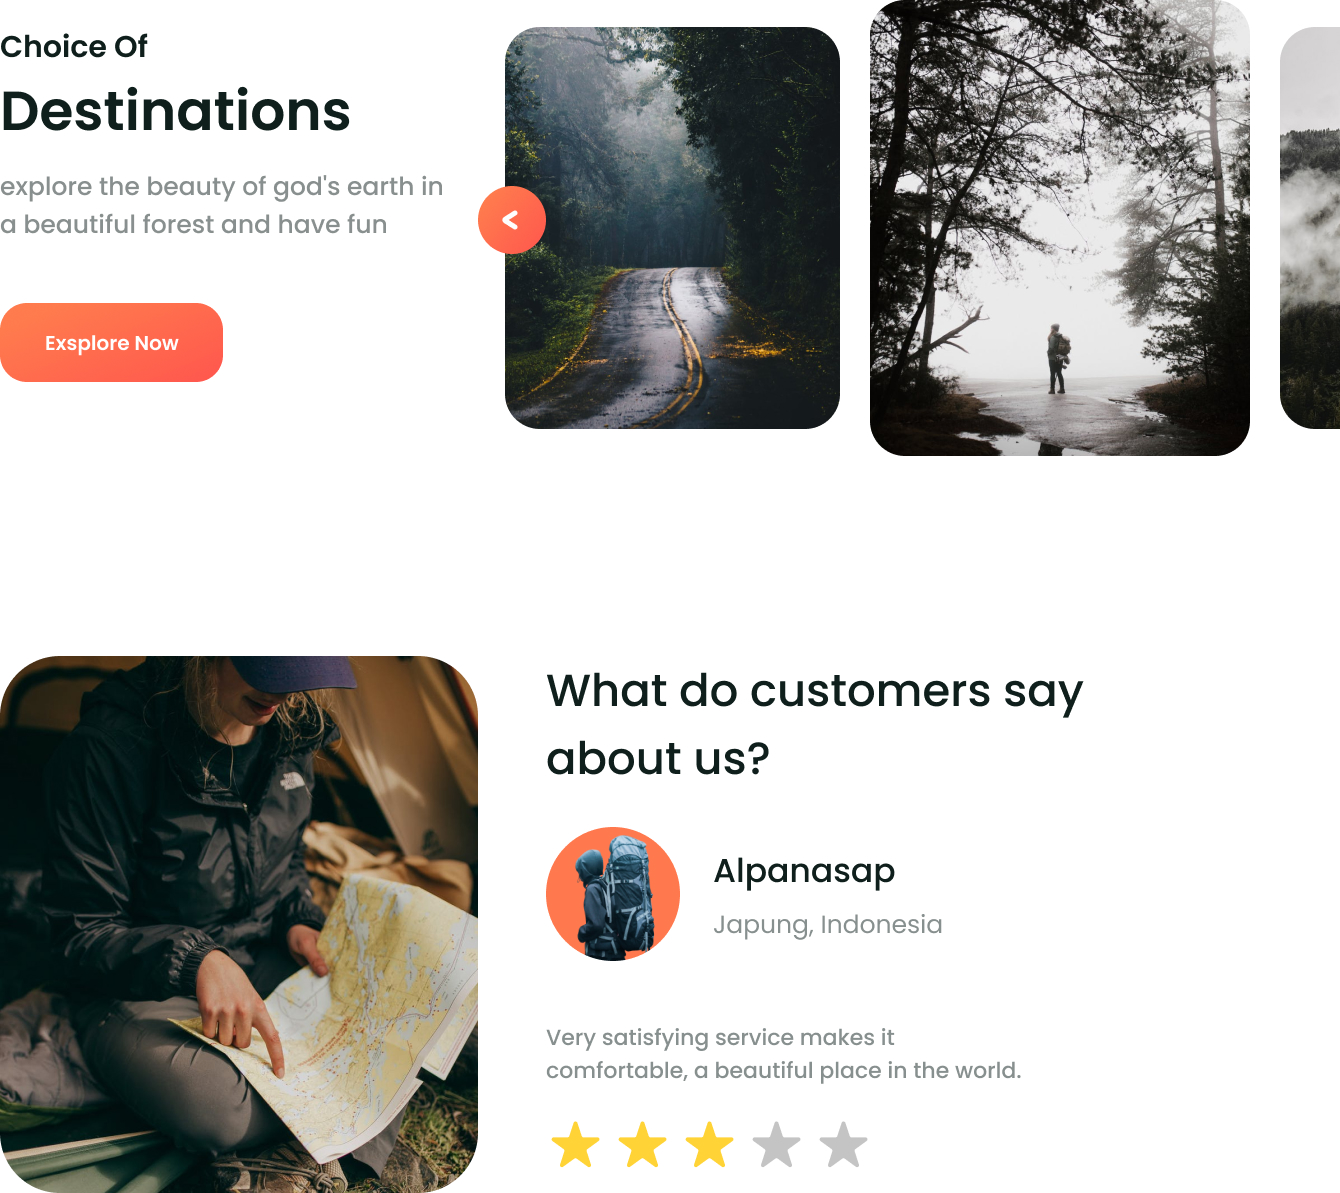
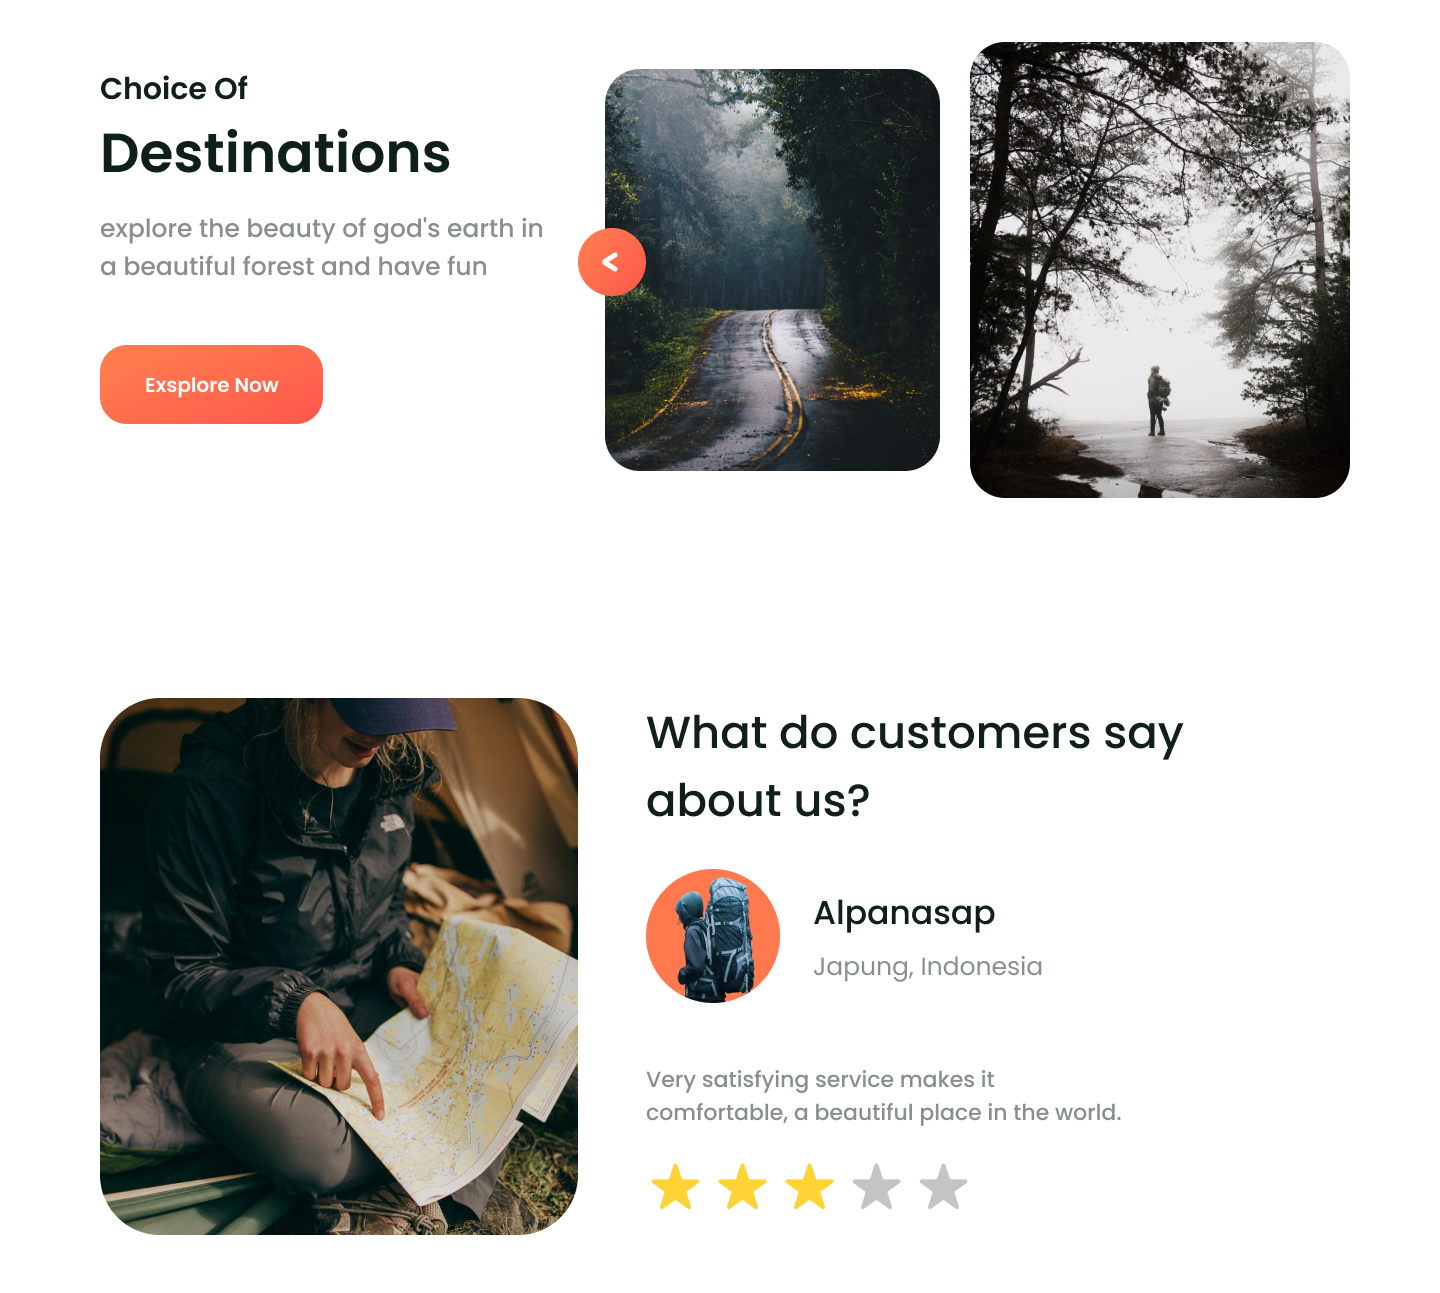
Setting Demos

diff --git a/README.md b/README.md
@@ -1,4 +1,6 @@
-<h1 align="center">GoTrip Design (Clean HTML+CSS)<a href="https://www.figma.com/file/w3Bb1v9Vq08lIoiIYLPegP/GoTrip" target="_blank">(Source)</a></h1>  
+<h1 align="center">GoTrip Design<a href="https://www.figma.com/file/w3Bb1v9Vq08lIoiIYLPegP/GoTrip" target="_blank">(Source)</a></h1>  
 
 ![Screen 2](https://github.com/Mailerino/GoTrip-layout/blob/main/demos/Screen%201.jpg "Screen 2")
-![Screen 1](https://github.com/Mailerino/GoTrip-layout/blob/main/demos/Screen%202.jpg "Screen 1")
+![Screen 1](https://github.com/Mailerino/GoTrip-layout/blob/main/demos/Screen%202.jpg "Screen 1")  
+
+<h3 align="center">Clean (HTML+CSS) with Owl Carousel</h3>  
